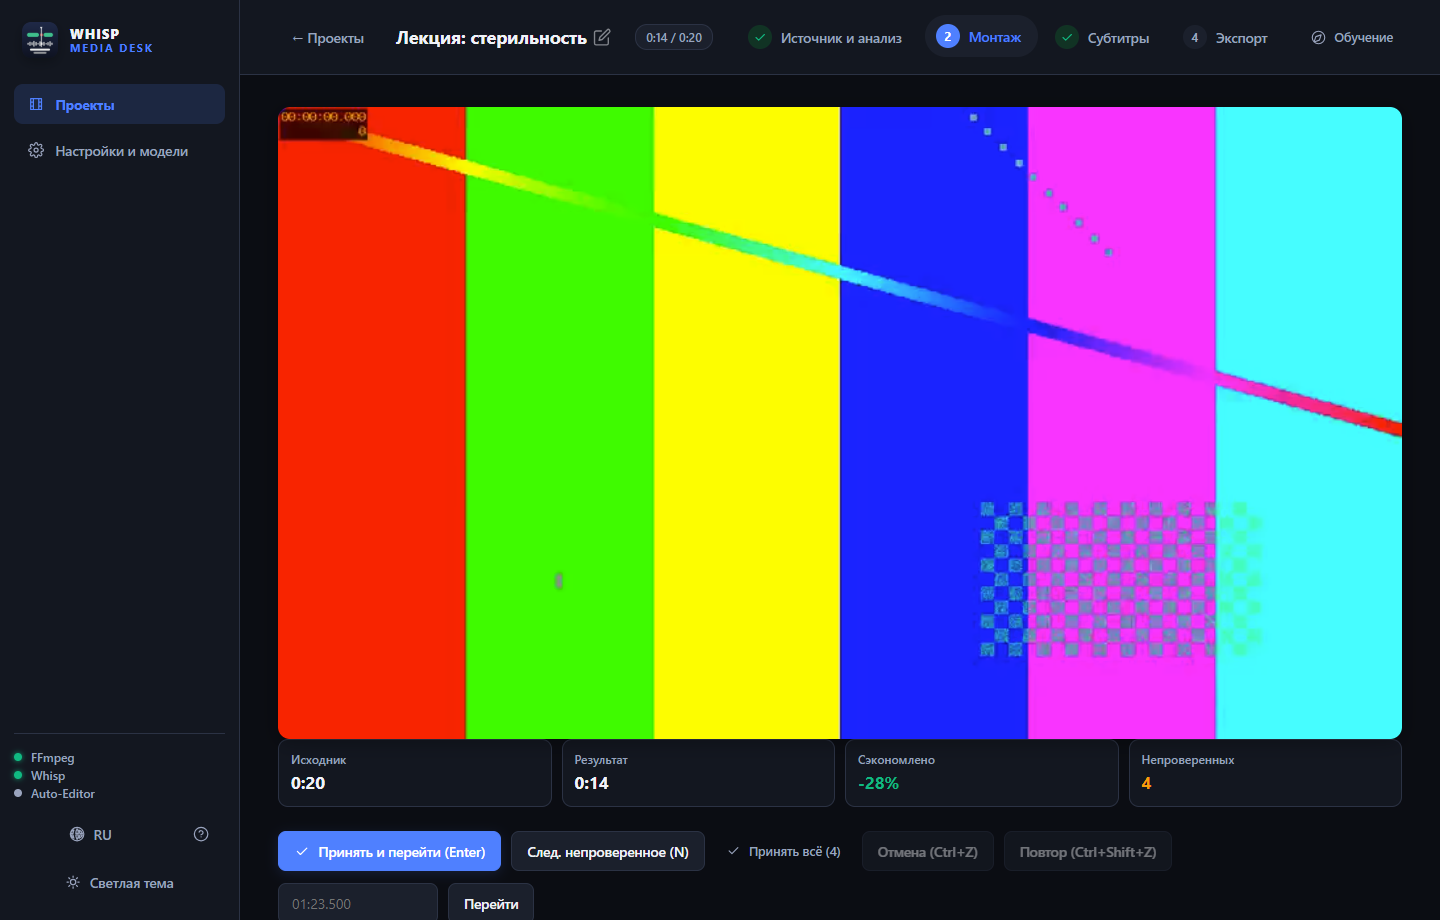
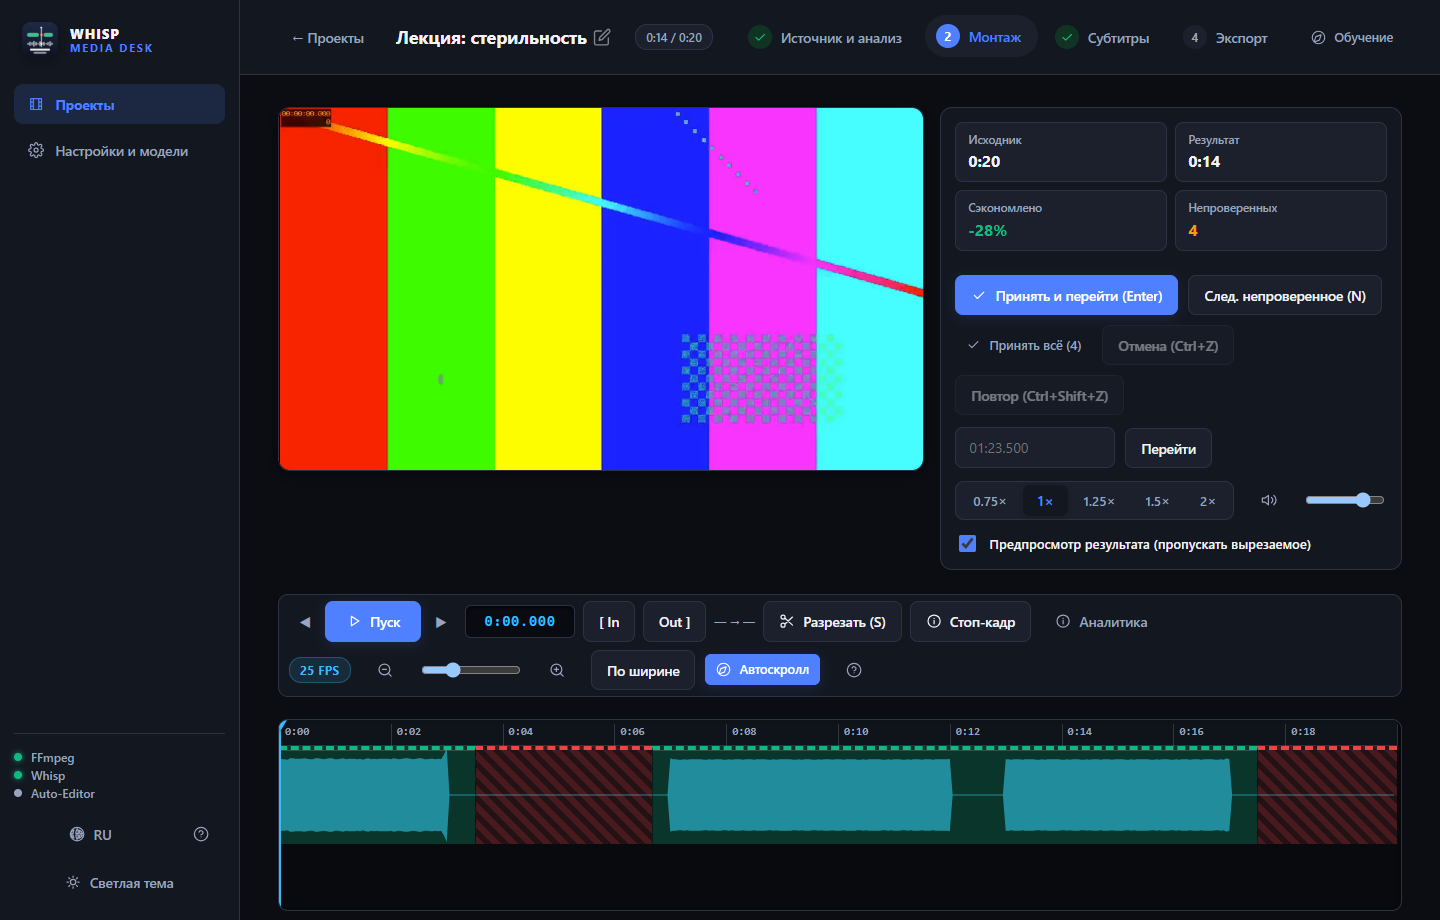
style: elevate editor UX/UI to Premiere Pro studio standards and update screenshots

diff --git a/frontend/src/styles.css b/frontend/src/styles.css
@@ -270,42 +270,83 @@ details.more[open] > summary { padding-bottom: 2px; }
 .log { max-height: 220px; overflow: auto; background: #07090d; color: #cfd6e6; padding: 10px 12px; font-size: 12px; margin: 0; white-space: pre-wrap; border-radius: 8px; font-family: ui-monospace, Consolas, monospace; }
 
 /* ---------- плеер и монтаж ---------- */
-.player { position: relative; background: #000; border-radius: 12px; overflow: hidden; aspect-ratio: 16/9; box-shadow: 0 4px 20px rgba(0,0,0,0.3); }
-.player video { width: 100%; height: 100%; display: block; background: #000; }
+.editor { display: flex; flex-direction: column; gap: 12px; }
+.player-row {
+  display: grid;
+  grid-template-columns: minmax(0, 1.4fr) minmax(320px, 1fr);
+  gap: 16px;
+  align-items: start;
+}
+@media (max-width: 980px) {
+  .player-row { grid-template-columns: 1fr; }
+}
+.player {
+  position: relative;
+  background: #000;
+  border-radius: 12px;
+  overflow: hidden;
+  width: 100%;
+  max-width: 100%;
+  min-width: 0;
+  aspect-ratio: 16 / 9;
+  box-shadow: 0 4px 20px rgba(0,0,0,0.4);
+  border: 1px solid var(--line);
+}
+.player video { width: 100%; height: 100%; display: block; background: #000; object-fit: contain; }
 .subtitle { position: absolute; bottom: 8%; left: 6%; right: 6%; text-align: center; font-size: 19px; font-weight: 600; text-shadow: 0 1px 4px rgba(0,0,0,0.9), 0 0 12px #000; pointer-events: none; }
 .cutflag { position: absolute; top: 12px; left: 12px; background: var(--cut); color: #fff; padding: 3px 10px; border-radius: 6px; font-size: 12px; font-weight: 700; letter-spacing: .05em; }
-.side { display: flex; flex-direction: column; gap: 12px; }
-.stats { display: grid; grid-template-columns: repeat(4, 1fr); gap: 10px; }
-.stats div { background: var(--panel); border: 1px solid var(--line); border-radius: 10px; padding: 10px 12px; display: flex; flex-direction: column; }
-.stats span { color: var(--muted); font-size: 12px; font-weight: 500; }
-.stats b { font-size: 17px; font-variant-numeric: tabular-nums; font-weight: 700; margin-top: 2px; }
-.toolbar { display: flex; gap: 8px; align-items: center; flex-wrap: wrap; margin-bottom: 10px; }
-.tc { font-variant-numeric: tabular-nums; font-family: ui-monospace, Consolas, monospace; min-width: 95px; font-size: 14px; font-weight: 600; }
+.side {
+  display: flex;
+  flex-direction: column;
+  gap: 12px;
+  background: var(--panel);
+  border: 1px solid var(--line);
+  border-radius: 12px;
+  padding: 14px;
+  min-width: 0;
+  width: 100%;
+}
+.stats { display: grid; grid-template-columns: repeat(2, 1fr); gap: 8px; }
+.stats div { background: var(--panel2); border: 1px solid var(--line); border-radius: 8px; padding: 8px 12px; display: flex; flex-direction: column; }
+.stats span { color: var(--muted); font-size: 11.5px; font-weight: 500; }
+.stats b { font-size: 16px; font-variant-numeric: tabular-nums; font-weight: 700; margin-top: 1px; }
+.toolbar { display: flex; gap: 8px; align-items: center; flex-wrap: wrap; margin-bottom: 10px; padding: 6px 10px; background: var(--panel); border: 1px solid var(--line); border-radius: 10px; }
+.tc {
+  font-variant-numeric: tabular-nums; font-family: ui-monospace, "Cascadia Code", "SF Mono", Consolas, monospace;
+  min-width: 110px; font-size: 14px; font-weight: 700; letter-spacing: 0.05em; background: #090b10;
+  border: 1px solid var(--line); border-radius: 6px; padding: 5px 12px; color: #38bdf8; text-align: center;
+  box-shadow: inset 0 2px 4px rgba(0,0,0,0.6); display: inline-flex; align-items: center; justify-content: center;
+}
 
-.timeline { overflow-x: auto; overflow-y: hidden; background: #090b0e; border: 1px solid var(--line); border-radius: 10px; user-select: none; }
+.timeline { overflow-x: auto; overflow-y: hidden; background: #080a0e; border: 1px solid var(--line); border-radius: 10px; user-select: none; box-shadow: inset 0 2px 8px rgba(0,0,0,0.5); }
 .tl-inner { position: relative; height: 190px; cursor: text; }
-.ruler { position: absolute; top: 0; left: 0; right: 0; height: 24px; border-bottom: 1px solid var(--line); }
-.ruler span { position: absolute; top: 4px; font-size: 11px; color: var(--muted); padding-left: 4px; border-left: 1px solid var(--line); height: 20px; font-family: ui-monospace, monospace; }
-.wave { position: absolute; top: 24px; left: 0; right: 0; height: 100px; }
-.wave path { fill: #485268; }
-.segs { position: absolute; top: 24px; left: 0; right: 0; height: 100px; }
+.ruler { position: absolute; top: 0; left: 0; right: 0; height: 26px; border-bottom: 1px solid var(--line); background: rgba(19, 23, 32, 0.7); }
+.ruler span { position: absolute; top: 4px; font-size: 11px; color: var(--muted); padding-left: 5px; border-left: 1px solid rgba(255, 255, 255, 0.15); height: 22px; font-family: ui-monospace, Consolas, monospace; font-weight: 600; }
+.wave { position: absolute; top: 26px; left: 0; right: 0; height: 98px; }
+.wave path { fill: #38bdf8; opacity: 0.65; }
+.segs { position: absolute; top: 26px; left: 0; right: 0; height: 98px; }
 .seg { position: absolute; top: 0; bottom: 0; border-left: 1px solid rgba(0,0,0,0.4); }
-.seg.keep { background: rgba(16, 185, 129, 0.22); border-top: 4px solid var(--keep); }
-.seg.cut { background: repeating-linear-gradient(45deg, rgba(239, 68, 68, 0.28), rgba(239, 68, 68, 0.28) 6px, rgba(239, 68, 68, 0.14) 6px, rgba(239, 68, 68, 0.14) 12px); border-top: 4px solid var(--cut); }
+.seg.keep { background: rgba(16, 185, 129, 0.25); border-top: 4px solid var(--keep); box-shadow: inset 0 1px 0 rgba(255, 255, 255, 0.15); }
+.seg.cut { background: repeating-linear-gradient(45deg, rgba(239, 68, 68, 0.28), rgba(239, 68, 68, 0.28) 6px, rgba(239, 68, 68, 0.12) 6px, rgba(239, 68, 68, 0.12) 12px); border-top: 4px solid var(--cut); }
 .seg.unrev { border-top-style: dashed; }
 .seg.manual { box-shadow: inset 0 -4px 0 var(--manual); }
 .seg.locked::after { content: "🔒"; position: absolute; left: 4px; bottom: 4px; font-size: 11px; }
 .seg.sel { outline: 2px solid #fff; outline-offset: -2px; }
 .handle { position: absolute; right: -4px; top: 0; bottom: 0; width: 8px; cursor: ew-resize; z-index: 3; }
 .handle:hover { background: rgba(255, 255, 255, 0.35); }
-.scene { position: absolute; top: 24px; height: 100px; width: 0; border-left: 1px dotted var(--warn); pointer-events: none; }
-.mark { position: absolute; top: 24px; height: 100px; width: 2px; background: var(--warn); pointer-events: none; z-index: 2; }
+.scene { position: absolute; top: 26px; height: 98px; width: 0; border-left: 1px dotted var(--warn); pointer-events: none; }
+.mark { position: absolute; top: 26px; height: 98px; width: 2px; background: var(--warn); pointer-events: none; z-index: 2; }
 .mark.out { background: #f97316; }
-.tl-ghost { position: absolute; top: 24px; height: 100px; border-left: 2px solid #fff; z-index: 4; pointer-events: none; }
+.tl-ghost { position: absolute; top: 26px; height: 98px; border-left: 2px solid #fff; z-index: 4; pointer-events: none; }
 .tl-ghost span { position: absolute; top: -20px; left: 4px; background: #fff; color: #000; font-size: 11px; font-weight: 700; padding: 1px 5px; border-radius: 4px; }
 .tl-hover-ghost { position: absolute; top: 0; bottom: 0; width: 0; border-left: 1px dashed rgba(255, 255, 255, 0.4); pointer-events: none; z-index: 6; }
 .tl-hover-ghost span { position: absolute; top: 2px; left: 6px; background: var(--panel2); color: var(--text); border: 1px solid var(--line); font-size: 11px; font-weight: 600; padding: 1px 6px; border-radius: 4px; font-family: ui-monospace, Consolas, monospace; box-shadow: 0 2px 6px rgba(0,0,0,0.4); white-space: nowrap; }
-.playhead { position: absolute; top: 0; bottom: 0; width: 0; border-left: 2px solid #f43f5e; pointer-events: none; z-index: 5; }
+.playhead { position: absolute; top: 0; bottom: 0; width: 0; border-left: 2px solid #38bdf8; pointer-events: none; z-index: 10; }
+.playhead::before {
+  content: ""; position: absolute; top: 0; left: -6px; width: 0; height: 0;
+  border-left: 6px solid transparent; border-right: 6px solid transparent;
+  border-top: 10px solid #38bdf8; filter: drop-shadow(0 2px 4px rgba(0,0,0,0.6));
+}
 .legend { display: flex; align-items: center; gap: 10px; margin: 8px 0 14px; font-size: 12px; color: var(--muted); flex-wrap: wrap; }
 .sw { width: 14px; height: 10px; display: inline-block; border-radius: 3px; margin-left: 8px; }
 .sw.keep { background: var(--keep); }

diff --git a/frontend/src/components/Editor.tsx b/frontend/src/components/Editor.tsx
@@ -409,10 +409,28 @@ export default function Editor({ pid, project, payload, onPayload, scenes, wave,
 
       {/* Панель инструментов таймлайна */}
       <div className="toolbar" style={{ marginTop: 12 }}>
-        <button onClick={togglePlay} className="primary">
-          <Icon name={playing ? "pause" : "play"} /> {playing ? (lang === "ru" ? "Пауза" : "Pause") : (lang === "ru" ? "Пуск" : "Play")}
-        </button>
-        <span className="tc">{fmtTime(current)}</span>
+        <div className="row" style={{ gap: 4 }}>
+          <button
+            className="ghost small"
+            onClick={() => seek(current - frameMs)}
+            title={lang === "ru" ? "Шаг на 1 кадр назад (←)" : "Step 1 frame backward (←)"}
+            style={{ padding: "6px 9px", fontSize: 13, minWidth: 32 }}
+          >
+            ◀
+          </button>
+          <button onClick={togglePlay} className="primary" style={{ minWidth: 96 }}>
+            <Icon name={playing ? "pause" : "play"} /> {playing ? (lang === "ru" ? "Пауза" : "Pause") : (lang === "ru" ? "Пуск" : "Play")}
+          </button>
+          <button
+            className="ghost small"
+            onClick={() => seek(current + frameMs)}
+            title={lang === "ru" ? "Шаг на 1 кадр вперёд (→)" : "Step 1 frame forward (→)"}
+            style={{ padding: "6px 9px", fontSize: 13, minWidth: 32 }}
+          >
+            ▶
+          </button>
+        </div>
+        <span className="tc" title={lang === "ru" ? "Текущий таймкод (чч:мм:сс.мс)" : "Current timecode"}>{fmtTime(current)}</span>
 
         <button onClick={() => setMarkIn(snapMs(current))}>[ In</button>
         <button onClick={() => setMarkOut(snapMs(current))}>Out ]</button>
@@ -446,7 +464,10 @@ export default function Editor({ pid, project, payload, onPayload, scenes, wave,
         <span className="grow" />
 
         {/* Масштабирование */}
-        <div className="row">
+        <div className="row" style={{ alignItems: "center" }}>
+          <span className="badge small" style={{ background: "rgba(56, 189, 248, 0.12)", color: "#38bdf8", border: "1px solid rgba(56, 189, 248, 0.3)", fontWeight: 700, letterSpacing: "0.03em" }}>
+            {fps.toFixed(0)} FPS
+          </span>
           <button className="ghost" onClick={() => setPps((p) => Math.max(0.5, p * 0.75))} title={t("editor.zoom_out")}>
             <Icon name="zoom-out" />
           </button>
